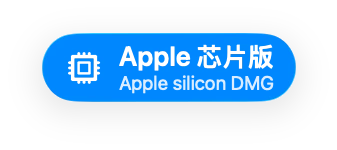
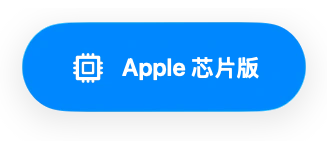
docs(readme): drop the extra title and give the buttons a clean phone layout
- Remove the `# Moonlight macOS Enhanced` heading: the header picture is the title
  (its alt text now describes the app).
- Phone variants of the icon buttons are one line, all the same size, so the four
  buttons form an even 2 x 2 grid instead of ragged rows; the requirement marker
  has a narrower phone variant that stays on one line. Desktop is unchanged.

Changed region(s): [[0.0612, 0.1333, 0.948, 0.7467]]

diff --git a/README.en.md b/README.en.md
@@ -1,15 +1,13 @@
-# Moonlight macOS Enhanced
-
 <div align="center">
 
 <picture>
   <source media="(prefers-color-scheme: dark)" srcset="readme-assets/images/en/header-dark.png">
-  <img src="readme-assets/images/en/header-light.png" width="1000" alt="Moonlight macOS Enhanced">
+  <img src="readme-assets/images/en/header-light.png" width="1000" alt="Moonlight macOS Enhanced: a native macOS streaming client for Apple Silicon and Intel, macOS 12 or later">
 </picture>
 
 <p align="center"><a href="https://github.com/skyhua0224/moonlight-macos-enhanced/releases/latest"><picture><source media="(prefers-color-scheme: dark) and (max-width: 600px)" srcset="readme-assets/buttons/en/rd-download-p-dark.webp"><source media="(max-width: 600px)" srcset="readme-assets/buttons/en/rd-download-p.webp"><source media="(prefers-color-scheme: dark)" srcset="readme-assets/buttons/en/rd-download-d-dark.webp"><img src="readme-assets/buttons/en/rd-download-d.webp" alt="Download (universal, recommended)" height="76"></picture></a>&nbsp;<a href="https://github.com/skyhua0224/moonlight-macos-enhanced"><picture><source media="(prefers-color-scheme: dark) and (max-width: 600px)" srcset="readme-assets/buttons/en/rd-star-p-dark.webp"><source media="(max-width: 600px)" srcset="readme-assets/buttons/en/rd-star-p.webp"><source media="(prefers-color-scheme: dark)" srcset="readme-assets/buttons/en/rd-star-d-dark.webp"><img src="readme-assets/buttons/en/rd-star-d.webp" alt="Star on GitHub" height="76"></picture></a>&nbsp;<a href=".github/release-notes/v1.3.9-rc.8.md"><picture><source media="(prefers-color-scheme: dark) and (max-width: 600px)" srcset="readme-assets/buttons/en/rd-notes-p-dark.webp"><source media="(max-width: 600px)" srcset="readme-assets/buttons/en/rd-notes-p.webp"><source media="(prefers-color-scheme: dark)" srcset="readme-assets/buttons/en/rd-notes-d-dark.webp"><img src="readme-assets/buttons/en/rd-notes-d.webp" alt="Release notes" height="76"></picture></a>&nbsp;<a href="https://github.com/skyhua0224/moonlight-macos-enhanced/issues"><picture><source media="(prefers-color-scheme: dark) and (max-width: 600px)" srcset="readme-assets/buttons/en/rd-issues-p-dark.webp"><source media="(max-width: 600px)" srcset="readme-assets/buttons/en/rd-issues-p.webp"><source media="(prefers-color-scheme: dark)" srcset="readme-assets/buttons/en/rd-issues-d-dark.webp"><img src="readme-assets/buttons/en/rd-issues-d.webp" alt="Report an issue" height="76"></picture></a></p>
 
-<p align="center"><picture><source media="(prefers-color-scheme: dark)" srcset="readme-assets/buttons/en/rd-req-d-dark.webp"><img src="readme-assets/buttons/en/rd-req-d.webp" alt="macOS 12 or later, Apple silicon and Intel" height="65"></picture></p>
+<p align="center"><picture><source media="(prefers-color-scheme: dark) and (max-width: 600px)" srcset="readme-assets/buttons/en/rd-req-p-dark.webp"><source media="(max-width: 600px)" srcset="readme-assets/buttons/en/rd-req-p.webp"><source media="(prefers-color-scheme: dark)" srcset="readme-assets/buttons/en/rd-req-d-dark.webp"><img src="readme-assets/buttons/en/rd-req-d.webp" alt="macOS 12 or later, Apple silicon and Intel" height="65"></picture></p>
 
 [![Build](https://github.com/skyhua0224/moonlight-macos-enhanced/actions/workflows/build.yml/badge.svg)](https://github.com/skyhua0224/moonlight-macos-enhanced/actions/workflows/build.yml) [![Release](https://img.shields.io/github/v/release/skyhua0224/moonlight-macos-enhanced?include_prereleases)](https://github.com/skyhua0224/moonlight-macos-enhanced/releases) [![Downloads](https://img.shields.io/github/downloads/skyhua0224/moonlight-macos-enhanced/total)](https://github.com/skyhua0224/moonlight-macos-enhanced/releases) [![Apple Silicon](https://img.shields.io/badge/Apple%20Silicon-Native-orange.svg)](https://github.com/skyhua0224/moonlight-macos-enhanced/releases) [![License](https://img.shields.io/badge/license-GPLv3-blue.svg)](LICENSE.txt)
 

diff --git a/README.md b/README.md
@@ -1,15 +1,13 @@
-# Moonlight macOS Enhanced
-
 <div align="center">
 
 <picture>
   <source media="(prefers-color-scheme: dark)" srcset="readme-assets/images/header-dark.png">
-  <img src="readme-assets/images/header-light.png" width="1000" alt="Moonlight macOS Enhanced">
+  <img src="readme-assets/images/header-light.png" width="1000" alt="Moonlight macOS Enhanced：原生 macOS 串流客户端，支持 Apple Silicon 与 Intel，macOS 12 及以上">
 </picture>
 
 <p align="center"><a href="https://github.com/skyhua0224/moonlight-macos-enhanced/releases/latest"><picture><source media="(prefers-color-scheme: dark) and (max-width: 600px)" srcset="readme-assets/buttons/zh/rd-download-p-dark.webp"><source media="(max-width: 600px)" srcset="readme-assets/buttons/zh/rd-download-p.webp"><source media="(prefers-color-scheme: dark)" srcset="readme-assets/buttons/zh/rd-download-d-dark.webp"><img src="readme-assets/buttons/zh/rd-download-d.webp" alt="下载（通用版，推荐）" height="76"></picture></a>&nbsp;<a href="https://github.com/skyhua0224/moonlight-macos-enhanced"><picture><source media="(prefers-color-scheme: dark) and (max-width: 600px)" srcset="readme-assets/buttons/zh/rd-star-p-dark.webp"><source media="(max-width: 600px)" srcset="readme-assets/buttons/zh/rd-star-p.webp"><source media="(prefers-color-scheme: dark)" srcset="readme-assets/buttons/zh/rd-star-d-dark.webp"><img src="readme-assets/buttons/zh/rd-star-d.webp" alt="点个 Star" height="76"></picture></a>&nbsp;<a href=".github/release-notes/v1.3.9-rc.8.md"><picture><source media="(prefers-color-scheme: dark) and (max-width: 600px)" srcset="readme-assets/buttons/zh/rd-notes-p-dark.webp"><source media="(max-width: 600px)" srcset="readme-assets/buttons/zh/rd-notes-p.webp"><source media="(prefers-color-scheme: dark)" srcset="readme-assets/buttons/zh/rd-notes-d-dark.webp"><img src="readme-assets/buttons/zh/rd-notes-d.webp" alt="更新说明" height="76"></picture></a>&nbsp;<a href="https://github.com/skyhua0224/moonlight-macos-enhanced/issues"><picture><source media="(prefers-color-scheme: dark) and (max-width: 600px)" srcset="readme-assets/buttons/zh/rd-issues-p-dark.webp"><source media="(max-width: 600px)" srcset="readme-assets/buttons/zh/rd-issues-p.webp"><source media="(prefers-color-scheme: dark)" srcset="readme-assets/buttons/zh/rd-issues-d-dark.webp"><img src="readme-assets/buttons/zh/rd-issues-d.webp" alt="问题反馈" height="76"></picture></a></p>
 
-<p align="center"><picture><source media="(prefers-color-scheme: dark)" srcset="readme-assets/buttons/zh/rd-req-d-dark.webp"><img src="readme-assets/buttons/zh/rd-req-d.webp" alt="macOS 12 或更高，Apple 芯片与 Intel" height="65"></picture></p>
+<p align="center"><picture><source media="(prefers-color-scheme: dark) and (max-width: 600px)" srcset="readme-assets/buttons/zh/rd-req-p-dark.webp"><source media="(max-width: 600px)" srcset="readme-assets/buttons/zh/rd-req-p.webp"><source media="(prefers-color-scheme: dark)" srcset="readme-assets/buttons/zh/rd-req-d-dark.webp"><img src="readme-assets/buttons/zh/rd-req-d.webp" alt="macOS 12 或更高，Apple 芯片与 Intel" height="65"></picture></p>
 
 [![Build](https://github.com/skyhua0224/moonlight-macos-enhanced/actions/workflows/build.yml/badge.svg)](https://github.com/skyhua0224/moonlight-macos-enhanced/actions/workflows/build.yml) [![Release](https://img.shields.io/github/v/release/skyhua0224/moonlight-macos-enhanced?include_prereleases)](https://github.com/skyhua0224/moonlight-macos-enhanced/releases) [![Downloads](https://img.shields.io/github/downloads/skyhua0224/moonlight-macos-enhanced/total)](https://github.com/skyhua0224/moonlight-macos-enhanced/releases) [![Apple Silicon](https://img.shields.io/badge/Apple%20Silicon-Native-orange.svg)](https://github.com/skyhua0224/moonlight-macos-enhanced/releases) [![License](https://img.shields.io/badge/license-GPLv3-blue.svg)](LICENSE.txt)
 
